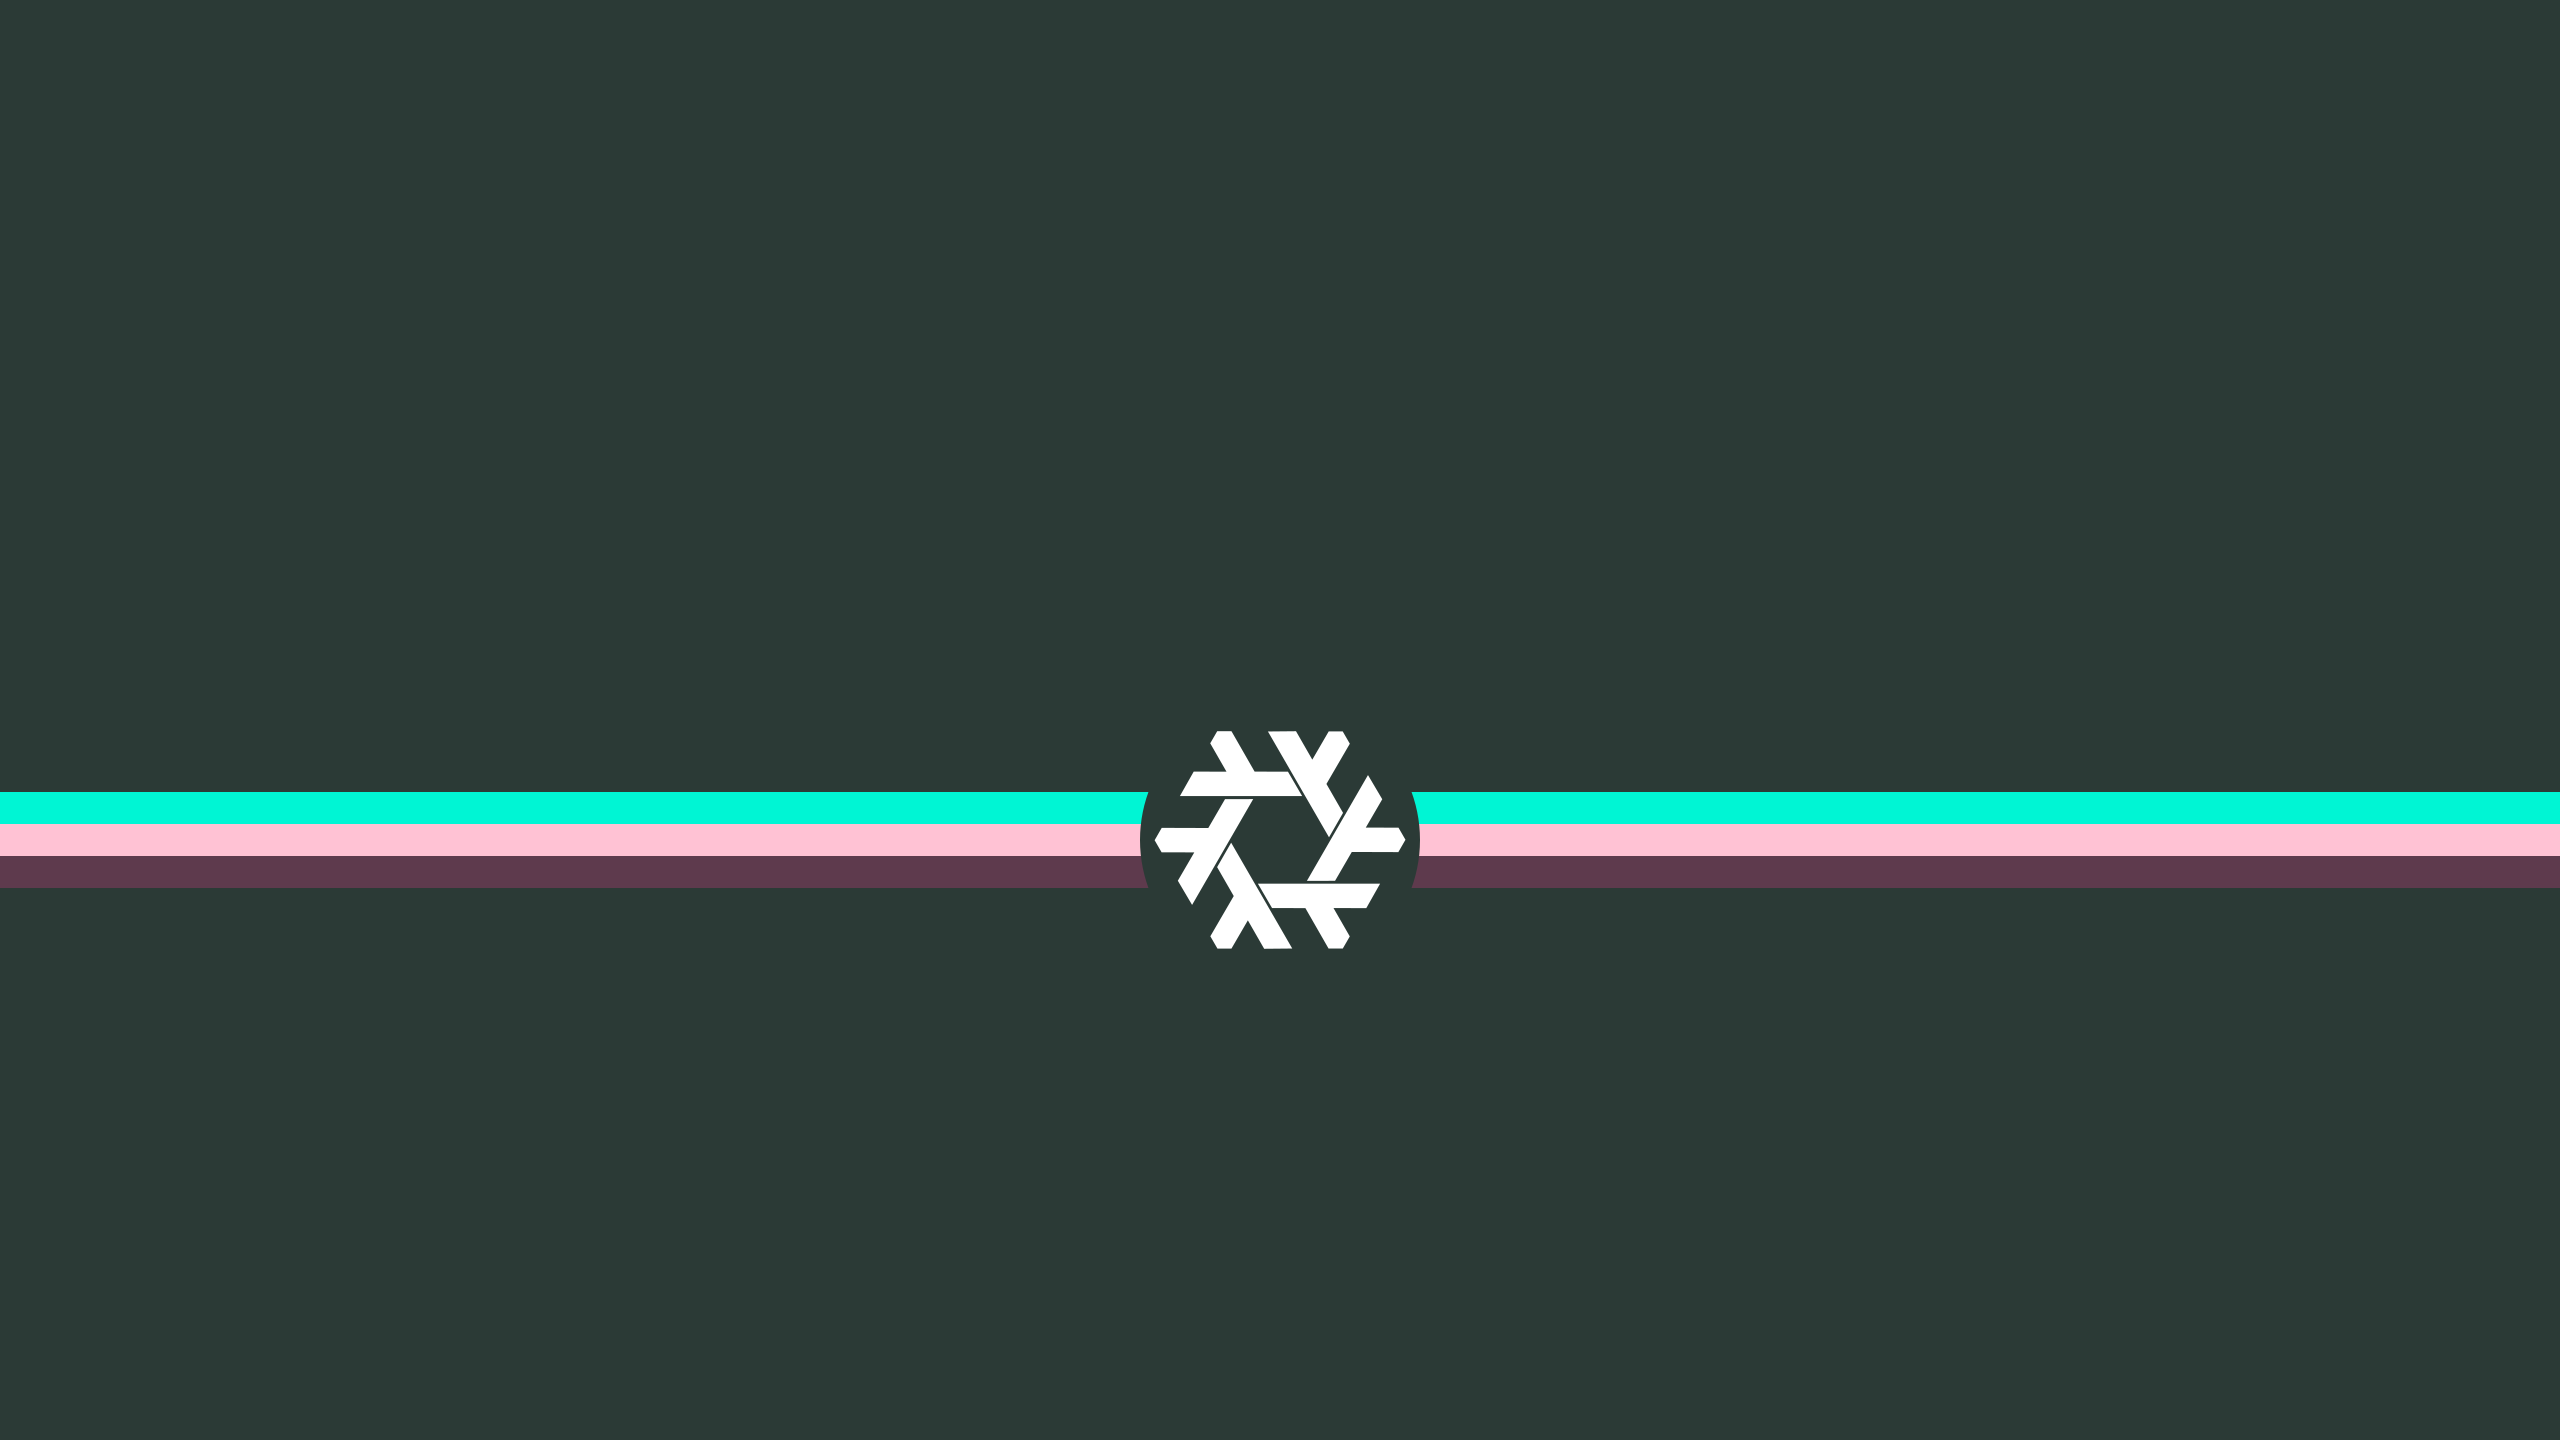
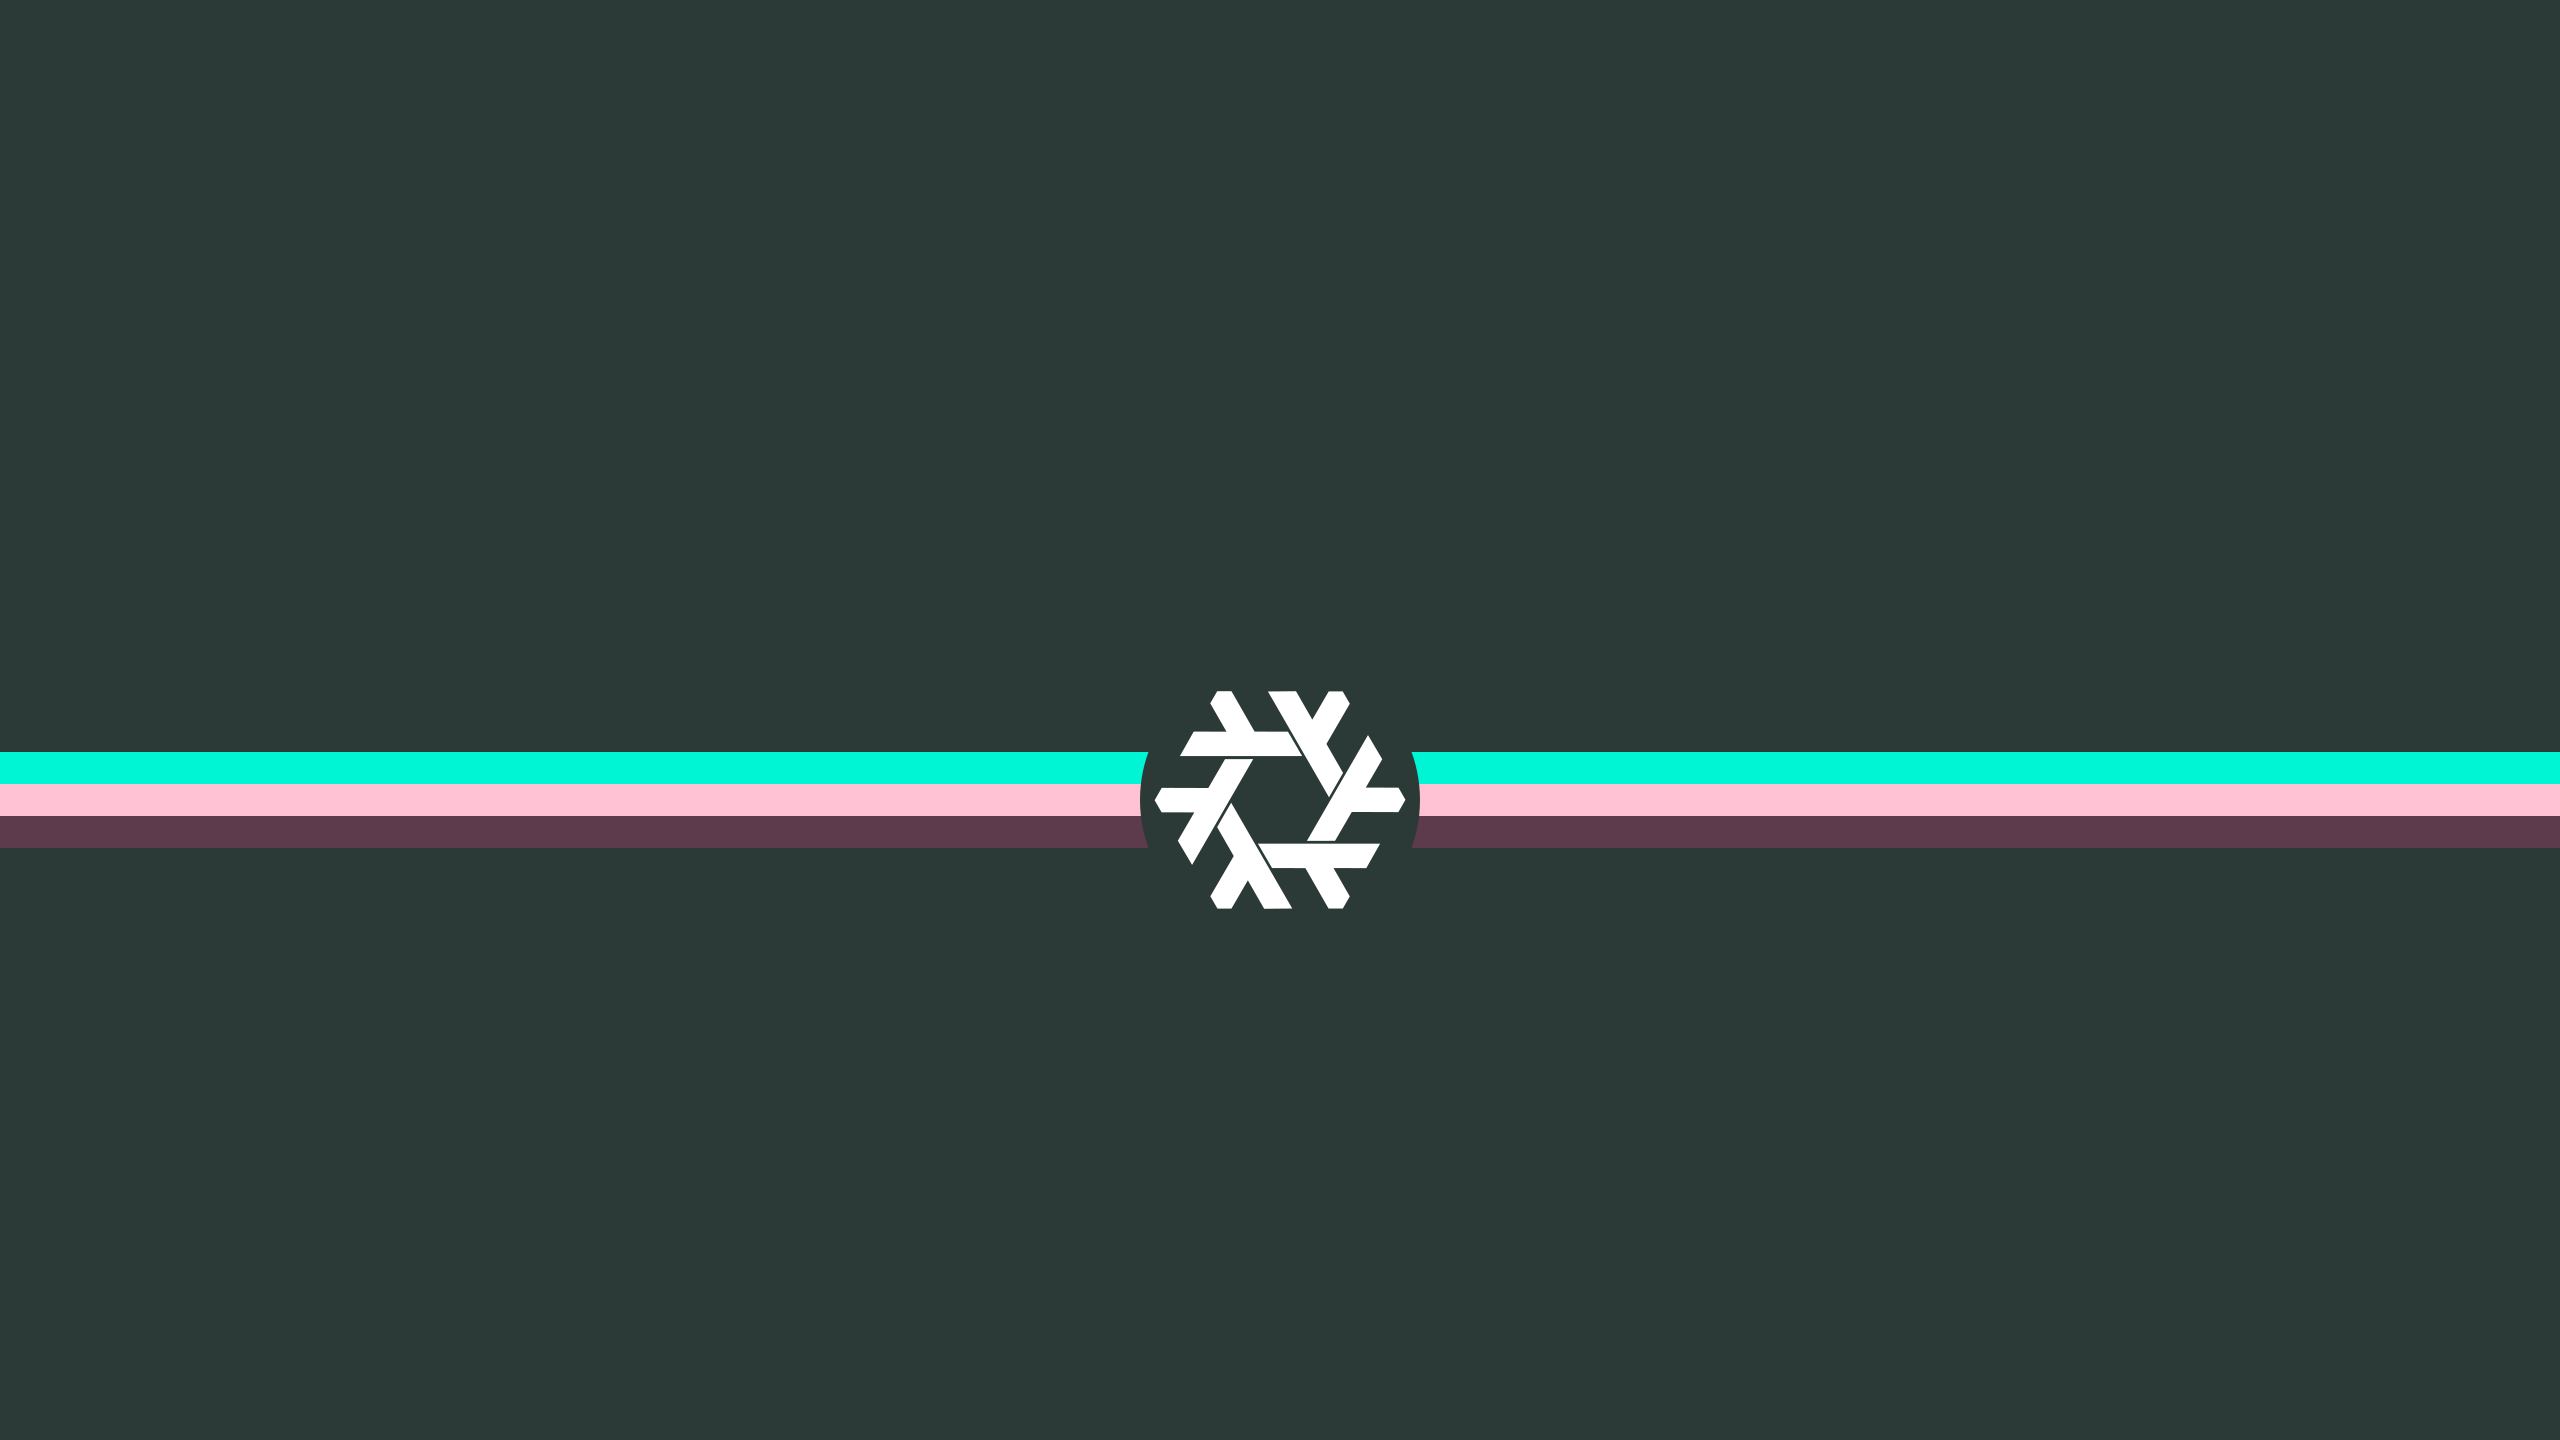
feat: shift custom NixOS wallpaper layout slightly upwards

Changed region(s): [[0.0, 0.4688, 1.0, 0.6562]]

diff --git a/memory/index_sessions.md b/memory/index_sessions.md
@@ -202,3 +202,4 @@
 - [feat-update-colloid-icon-theme-to-teal-variant](sessions/2026-06-24_feat-update-colloid-icon-theme-to-teal-variant/)
 - [fix-resolve-pure-evaluation-error-by-copying-wallp](sessions/2026-06-24_fix-resolve-pure-evaluation-error-by-copying-wallp/)
 - [feat-replace-wallpaper-with-custom-pixel-perfect-n](sessions/2026-06-24_feat-replace-wallpaper-with-custom-pixel-perfect-n/)
+- [feat-adjust-precise-logo-alignment-on-custom-nixos](sessions/2026-06-24_feat-adjust-precise-logo-alignment-on-custom-nixos/)